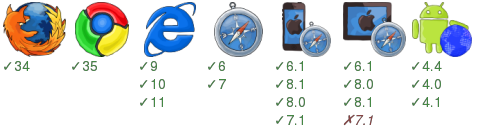
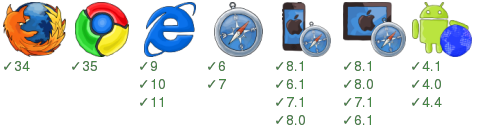
Auto commit smoke test results for 88db74e244fb93c169ef015ac85bc842013dcff7 [ci skip]

diff --git a/examples/00hello/badge.html b/examples/00hello/badge.html
@@ -28,20 +28,20 @@ div{vertical-align:top;overflow:hidden;display:inline-block;width:92px;padding:4
 <p>&#x2713;7</p>
 </div><div>
 <img src="/home/travis/build/zordius/fluxex/examples/00hello/node_modules/badge-render/browser-badge/static/iphone.png" />
+<p>&#x2713;8.1</p>
 <p>&#x2713;6.1</p>
+<p>&#x2713;7.1</p>
+<p>&#x2713;8.0</p>
+</div><div>
+<img src="/home/travis/build/zordius/fluxex/examples/00hello/node_modules/badge-render/browser-badge/static/ipad.png" />
 <p>&#x2713;8.1</p>
 <p>&#x2713;8.0</p>
 <p>&#x2713;7.1</p>
-</div><div>
-<img src="/home/travis/build/zordius/fluxex/examples/00hello/node_modules/badge-render/browser-badge/static/ipad.png" />
 <p>&#x2713;6.1</p>
-<p>&#x2713;8.0</p>
-<p>&#x2713;8.1</p>
-<i>&#x2717;7.1</i>
 </div><div>
 <img src="/home/travis/build/zordius/fluxex/examples/00hello/node_modules/badge-render/browser-badge/static/android-browser.png" />
-<p>&#x2713;4.4</p>
-<p>&#x2713;4.0</p>
 <p>&#x2713;4.1</p>
+<p>&#x2713;4.0</p>
+<p>&#x2713;4.4</p>
 </div></body>
 </html>
